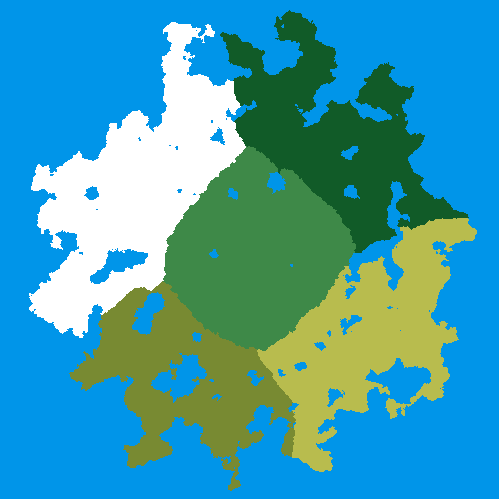
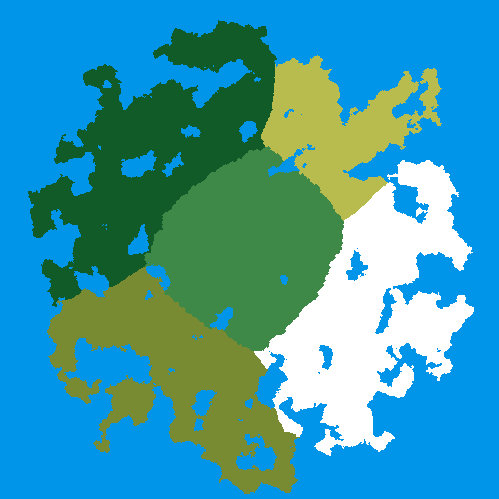
test special text

diff --git a/src/world_system.cpp b/src/world_system.cpp
@@ -54,16 +54,16 @@ WorldSystem::WorldSystem(entt::registry& reg, PhysicsSystem& physics_system, Fla
 	textBoxEntities.resize(5);
     vec2 size = vec2(WINDOW_WIDTH_PX / 2, 100);
     textBoxEntities[0] = createTextBox(registry, vec2(1.0f, 200.0f), size, 
-        "Welcome to Nova! Use WASD to move around!", 2.f, vec3(1));
+        "Welcome to @Nova! Use @WASD to move around!", 2.f, vec3(1));
     
     textBoxEntities[1] = createTextBox(registry, vec2(1.0f, 200.0f), size, 
-        "Great! Press F to toggle the ship upgrade UI", 2.f, vec3(1));
+        "Great! Press @F to toggle the ship @upgrade @UI", 2.f, vec3(1));
     
     textBoxEntities[2] = createTextBox(registry, vec2(1.0f, 200.0f), size, 
-        "Good job! Now use left click to fire your weapon.", 2.f, vec3(1));
+        "Good job! Now use @left-click to fire your @weapon.", 2.f, vec3(1));
     
     textBoxEntities[3] = createTextBox(registry, vec2(1.0f, 200.0f), size, 
-        "Nice shot! Go explore the planet.", 2.f, vec3(1));
+        "Nice shot! Go explore the @planet.", 2.f, vec3(1));
     
     textBoxEntities[4] = createTextBox(registry, vec2(1.0f, 200.0f), size, 
         "You defeated an enemy! Keep exploring.", 2.f, vec3(1));

diff --git a/src/render_system.cpp b/src/render_system.cpp
@@ -190,8 +190,15 @@ entt::entity createGlyph(
 
 void RenderSystem::renderText(const std::string& text, float x, float y, float scale, glm::vec3 color, const mat3& projection) {
 	int offset = 0;
-	for (const unsigned char c : text) {
-		auto entity = createGlyph(registry, c, x + offset, y, scale, color);
+	vec3 textColor = color;
+
+	for (const unsigned char& c: text) {
+		if (c == '@') {
+			textColor = {0, 0, 1};
+			continue;
+		}
+		if (c == ' ') textColor = color;
+		auto entity = createGlyph(registry, c, x + offset, y, scale, textColor);
 		drawTexturedMesh(entity, projection);
 		offset += scale * (5 + 1);
 	}

diff --git a/src/main.cpp b/src/main.cpp
@@ -34,7 +34,7 @@ int main()
 {
 	// TOGGLE this if you don't want a new map every time...
 	int mapWidth = 500, mapHeight = 500; 
-	if (false) {
+	if (true) {
 		auto generated_map = create_map(mapWidth, mapHeight);
 		create_background(generated_map);
 		create_biome_map(generated_map);
